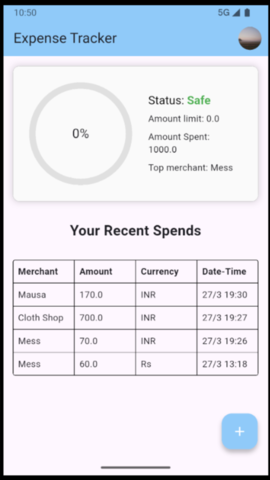
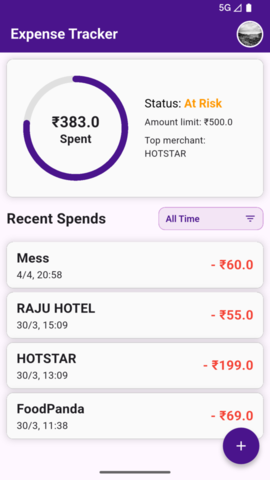
Add expense graph

diff --git a/expensetrackerappflutter/lib/widgets/expense_graph_card.dart b/expensetrackerappflutter/lib/widgets/expense_graph_card.dart
@@ -1,0 +1,209 @@
+import 'package:fl_chart/fl_chart.dart';
+import 'package:flutter/material.dart';
+import 'package:intl/intl.dart';
+import '../entities/expense.dart';
+import '../widgets/expense_filter.dart';
+
+class ExpenseGraphCard extends StatelessWidget {
+  final List<Expense> filteredExpenses;
+  final String currency;
+  final ExpenseFilter activeFilter;
+
+  const ExpenseGraphCard({
+    super.key,
+    required this.filteredExpenses,
+    required this.currency,
+    required this.activeFilter,
+  });
+
+  @override
+  Widget build(BuildContext context) {
+    if (filteredExpenses.isEmpty) {
+      return Container(
+        height: 160,
+        decoration: _cardDecoration(),
+        child: const Center(
+          child: Text("Not record found to generate graph",
+              style: TextStyle(color: Colors.grey)),
+        ),
+      );
+    }
+
+    Map<String, double> dailySpends = {};
+
+    for (var e in filteredExpenses) {
+      final date = DateTime(e.createdAt.year, e.createdAt.month, e.createdAt.day);
+      final key = '${date.year}-${date.month}-${date.day}';
+      dailySpends[key] = (dailySpends[key] ?? 0) + e.amount;
+    }
+
+    final sortedDates = dailySpends.keys.map((k) {
+      final parts = k.split('-');
+      return DateTime(int.parse(parts[0]), int.parse(parts[1]), int.parse(parts[2]));
+    }).toList()..sort();
+
+    List<FlSpot> spots = [];
+    double rawMaxY = 0;
+
+    for (int i = 0; i < sortedDates.length; i++) {
+      final date = sortedDates[i];
+      final key = '${date.year}-${date.month}-${date.day}';
+      final amount = dailySpends[key] ?? 0.0;
+      spots.add(FlSpot(i.toDouble(), amount));
+      if (amount > rawMaxY) rawMaxY = amount;
+    }
+
+    if (spots.length == 1) {
+      spots.insert(0, FlSpot(-1, 0));
+    }
+
+    if (rawMaxY == 0) rawMaxY = 100;
+
+    final interval = _calculateYInterval(rawMaxY);
+    final maxY = ((rawMaxY / interval).ceil() + 1) * interval;
+
+    final totalPoints = sortedDates.length - 1;
+
+    return Container(
+      decoration: _cardDecoration(),
+      padding: const EdgeInsets.symmetric(vertical: 10, horizontal: 20),
+      child: SizedBox(
+        height: 140,
+        child: LineChart(
+          LineChartData(
+            lineTouchData: LineTouchData(
+              enabled: true,
+              handleBuiltInTouches: true,
+              touchTooltipData: LineTouchTooltipData(
+                getTooltipColor: (spot) => Colors.purple.shade900.withOpacity(0.8),
+                getTooltipItems: (List<LineBarSpot> touchedBarSpots) {
+                  return touchedBarSpots.map((barSpot) {
+                    return LineTooltipItem(
+                      '$currency${barSpot.y.toInt()}',
+                      const TextStyle(
+                        color: Colors.white,
+                        fontWeight: FontWeight.bold,
+                        fontSize: 12,
+                      ),
+                    );
+                  }).toList();
+                },
+              ),
+            ),
+            minY: 0,
+            maxY: maxY.toDouble(),
+            gridData: FlGridData(
+              show: true,
+              drawVerticalLine: false,
+              horizontalInterval: interval,
+              getDrawingHorizontalLine: (value) {
+                return FlLine(
+                  color: Colors.grey.shade300,
+                  strokeWidth: 1,
+                  dashArray: [5, 5],
+                );
+              },
+            ),
+            titlesData: FlTitlesData(
+              rightTitles: const AxisTitles(sideTitles: SideTitles(showTitles: false)),
+              topTitles: const AxisTitles(sideTitles: SideTitles(showTitles: false)),
+              bottomTitles: AxisTitles(
+                sideTitles: SideTitles(
+                  showTitles: true,
+                  reservedSize: 30,
+                  interval: _calculateXInterval(totalPoints),
+                  getTitlesWidget: (value, meta) {
+                    final idx = value.toInt();
+                    if (idx < 0 || idx >= sortedDates.length) return const SizedBox.shrink();
+                    return Padding(
+                      padding: const EdgeInsets.only(top: 3.0),
+                      child: Text(
+                        DateFormat('d MMM').format(sortedDates[idx]),
+                        style: TextStyle(color: Colors.grey.shade600, fontSize: 11),
+                      ),
+                    );
+                  },
+                ),
+              ),
+              leftTitles: AxisTitles(
+                sideTitles: SideTitles(
+                  showTitles: true,
+                  reservedSize: 55,
+                  interval: interval,
+                  getTitlesWidget: (value, meta) {
+                    if (value == maxY) return const SizedBox.shrink();
+                    return Text(
+                      '$currency${value.toInt()}',
+                      style: TextStyle(color: Colors.grey.shade600, fontSize: 11),
+                    );
+                  },
+                ),
+              ),
+            ),
+            borderData: FlBorderData(show: false),
+            lineBarsData: [
+              LineChartBarData(
+                spots: spots,
+                isCurved: true,
+                color: Colors.purple.shade900,
+                barWidth: 3,
+                isStrokeCapRound: true,
+                dotData: FlDotData(
+                  show: true,
+                  getDotPainter: (spot, percent, bar, index) =>
+                      FlDotCirclePainter(
+                    radius: 4,
+                    color: Colors.purple.shade900,
+                    strokeWidth: 2,
+                    strokeColor: Colors.white,
+                  ),
+                ),
+                belowBarData: BarAreaData(
+                  show: true,
+                  gradient: LinearGradient(
+                    colors: [
+                      Colors.purple.shade900.withOpacity(0.25),
+                      Colors.purple.shade900.withOpacity(0.0),
+                    ],
+                    begin: Alignment.topCenter,
+                    end: Alignment.bottomCenter,
+                  ),
+                ),
+              ),
+            ],
+          ),
+        ),
+      ),
+    );
+  }
+
+  double _calculateYInterval(double rawMaxY) {
+    if (rawMaxY <= 100) return 50;
+    if (rawMaxY <= 500) return 100;
+    if (rawMaxY <= 1000) return 200;
+    if (rawMaxY <= 5000) return 500;
+    return 1000;
+  }
+
+  double _calculateXInterval(int totalPoints) {
+    if (totalPoints <= 0) return 1;
+    if (totalPoints <= 7) return 1;
+    if (totalPoints <= 31) return 5;
+    return (totalPoints / 5).ceilToDouble();
+  }
+
+  BoxDecoration _cardDecoration() {
+    return BoxDecoration(
+      color: Colors.grey.shade50,
+      borderRadius: BorderRadius.circular(10),
+      boxShadow: [
+        BoxShadow(
+          color: Colors.black.withOpacity(0.15),
+          blurRadius: 8,
+          spreadRadius: 1,
+        ),
+      ],
+      border: Border.all(width: 0.3, color: Colors.grey.shade500),
+    );
+  }
+}

diff --git a/expensetrackerappflutter/lib/home_screen.dart b/expensetrackerappflutter/lib/home_screen.dart
@@ -17,6 +17,7 @@ import 'package:flutter_secure_storage/flutter_secure_storage.dart';
 import 'package:flutter_sms_inbox/flutter_sms_inbox.dart';
 import 'package:http/http.dart' as http;
 import 'package:shared_preferences/shared_preferences.dart';
+import 'package:expensetrackerappflutter/widgets/expense_graph_card.dart';
 
 class HomeScreen extends StatefulWidget {
   const HomeScreen({super.key});
@@ -42,6 +43,9 @@ class _HomeScreenState extends State<HomeScreen> {
   bool _isLoading = true;
 
   String? _profilePicUrl;
+
+  int _currentCardIndex = 0;
+  final PageController _pageController = PageController(viewportFraction: 0.99);
 
   @override
   void initState() {
@@ -142,7 +146,6 @@ class _HomeScreenState extends State<HomeScreen> {
                 ),
                 child: CircleAvatar(
                   radius: 18,
-                  // backgroundColor: Colors.grey.shade300,
                   backgroundImage:
                       _profilePicUrl != null && _profilePicUrl!.isNotEmpty
                       ? NetworkImage(_profilePicUrl!)
@@ -164,13 +167,61 @@ class _HomeScreenState extends State<HomeScreen> {
         padding: EdgeInsets.all(10),
         child: Column(
           children: [
-            ExpenseCard(
-              progress: getProgress(),
-              total: _amountLimit,
-              spent: _amountSpent,
-              merchant: _topMerchant,
-              status: getStatus(),
-              currency: _currency,
+            SizedBox(
+              height: 200,
+              child: PageView(
+                padEnds: false,
+                clipBehavior: Clip.none,
+                scrollDirection: Axis.horizontal,
+                controller: _pageController,
+                onPageChanged: (int index) {
+                  setState(() {
+                    _currentCardIndex = index;
+                  });
+                },
+                children: [
+                  Padding(
+                    padding: const EdgeInsets.symmetric(
+                      horizontal: 2,
+                      vertical: 10,
+                    ),
+                    child: ExpenseCard(
+                      progress: getProgress(),
+                      total: _amountLimit,
+                      spent: _amountSpent,
+                      merchant: _topMerchant,
+                      status: getStatus(),
+                      currency: _currency,
+                    ),
+                  ),
+                  Padding(
+                    padding: EdgeInsets.symmetric(horizontal: 4, vertical: 10),
+                    child: ExpenseGraphCard(
+                      filteredExpenses: _filteredExpenses,
+                      currency: _currency,
+                      activeFilter: _activeFilter,
+                    ),
+                  ),
+                ],
+              ),
+            ),
+            SizedBox(height: 5),
+            Row(
+              mainAxisAlignment: MainAxisAlignment.center,
+              children: List.generate(2, (index) {
+                return AnimatedContainer(
+                  duration: const Duration(milliseconds: 300),
+                  margin: const EdgeInsets.symmetric(horizontal: 4),
+                  height: 8,
+                  width: _currentCardIndex == index ? 24 : 8,
+                  decoration: BoxDecoration(
+                    color: _currentCardIndex == index
+                        ? Colors.purple.shade900
+                        : Colors.grey.shade300,
+                    borderRadius: BorderRadius.circular(4),
+                  ),
+                );
+              }),
             ),
             SizedBox(height: 15),
             Row(

diff --git a/expensetrackerappflutter/lib/widgets/expense_card.dart b/expensetrackerappflutter/lib/widgets/expense_card.dart
@@ -60,6 +60,7 @@ class ExpenseCard extends StatelessWidget {
                   ),
                 ),
                 Column(
+                  mainAxisSize: MainAxisSize.min,
                   children: [
                     Text(
                       "$currency$spent",

diff --git a/readme.md b/readme.md
@@ -171,7 +171,7 @@ Kafka:
 </table>
 
 
-### Home Page
+### Home Page (First)
 
 <table width="100%">
   <tr>
@@ -183,7 +183,26 @@ Kafka:
       →
     </td>
     <td align="center">
-      <img src="ExpenseTrackerResources/home.png" height="400"/><br/>
+      <img src="ExpenseTrackerResources/home1.png" height="400"/><br/>
+      <sub>Improved Home Page UI</sub>
+    </td>
+  </tr>
+</table>
+
+
+### Home Page (Second)
+
+<table width="100%">
+  <tr>
+    <td align="center">
+      <img src="ExpenseTrackerResources/oldHome.png" height="400"/><br/>
+      <sub>Old Home Page UI</sub>
+    </td>
+    <td align="center" style="vertical-align: middle; font-size: 28px; width: 50px;">
+      →
+    </td>
+    <td align="center">
+      <img src="ExpenseTrackerResources/home2.png" height="400"/><br/>
       <sub>Improved Home Page UI</sub>
     </td>
   </tr>
@@ -231,6 +250,7 @@ Following issues need to be fixed:
 - Allow user to turn on/off message permission ✅
 - No way to change profile picture ✅
 - Some fields in signup are redundant (username & email, also phone number which is commented) ✅
+- Update demo video
 
 ## Notes
 
